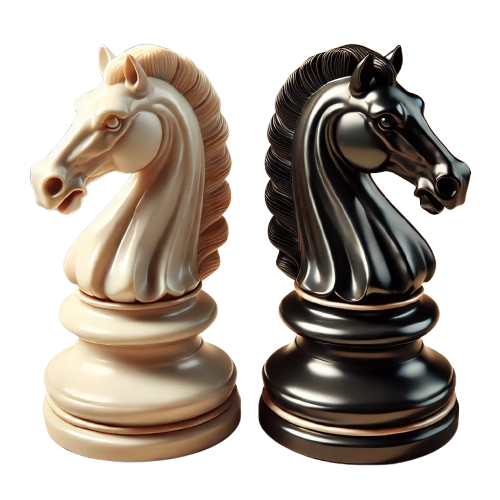
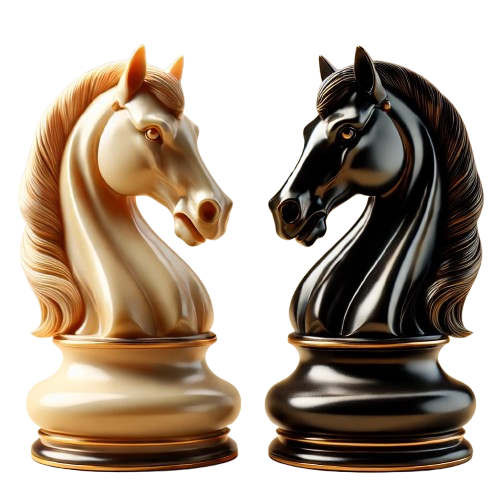
imagenes defaultCourses generales sustituidas

diff --git a/src/components/ClassZoneSection/ExplanationTheme/index.tsx b/src/components/ClassZoneSection/ExplanationTheme/index.tsx
@@ -77,11 +77,12 @@ function ExplanationTheme({
                     />
                 </figure>
                 <p>
-                    Me alegro de verte,{" "}
-                    <span className={["span-pr-color"].join(" ")}>
-                        {user?.username}
+                    Me alegro de verte de nuevo,{" "}
+                    <span
+                        className={["span-pr-color", "text-medium"].join(" ")}
+                    >
+                        {user?.username}.
                     </span>
-                    . Comencemos con la clase.
                 </p>
             </div>
         </div>

diff --git a/src/components/ClassZoneSection/ExplanationTheme/ExplanationTheme.module.css b/src/components/ClassZoneSection/ExplanationTheme/ExplanationTheme.module.css
@@ -49,10 +49,11 @@
     width: 100%;
     display: flex;
     gap: 10px;
+    font-family: Roboto-extraLight;
 }
 
 .professorContainer figure {
-    width: 120px;
+    width: 100px;
     aspect-ratio: 1/1;
 }
 .professorContainer figure img {
